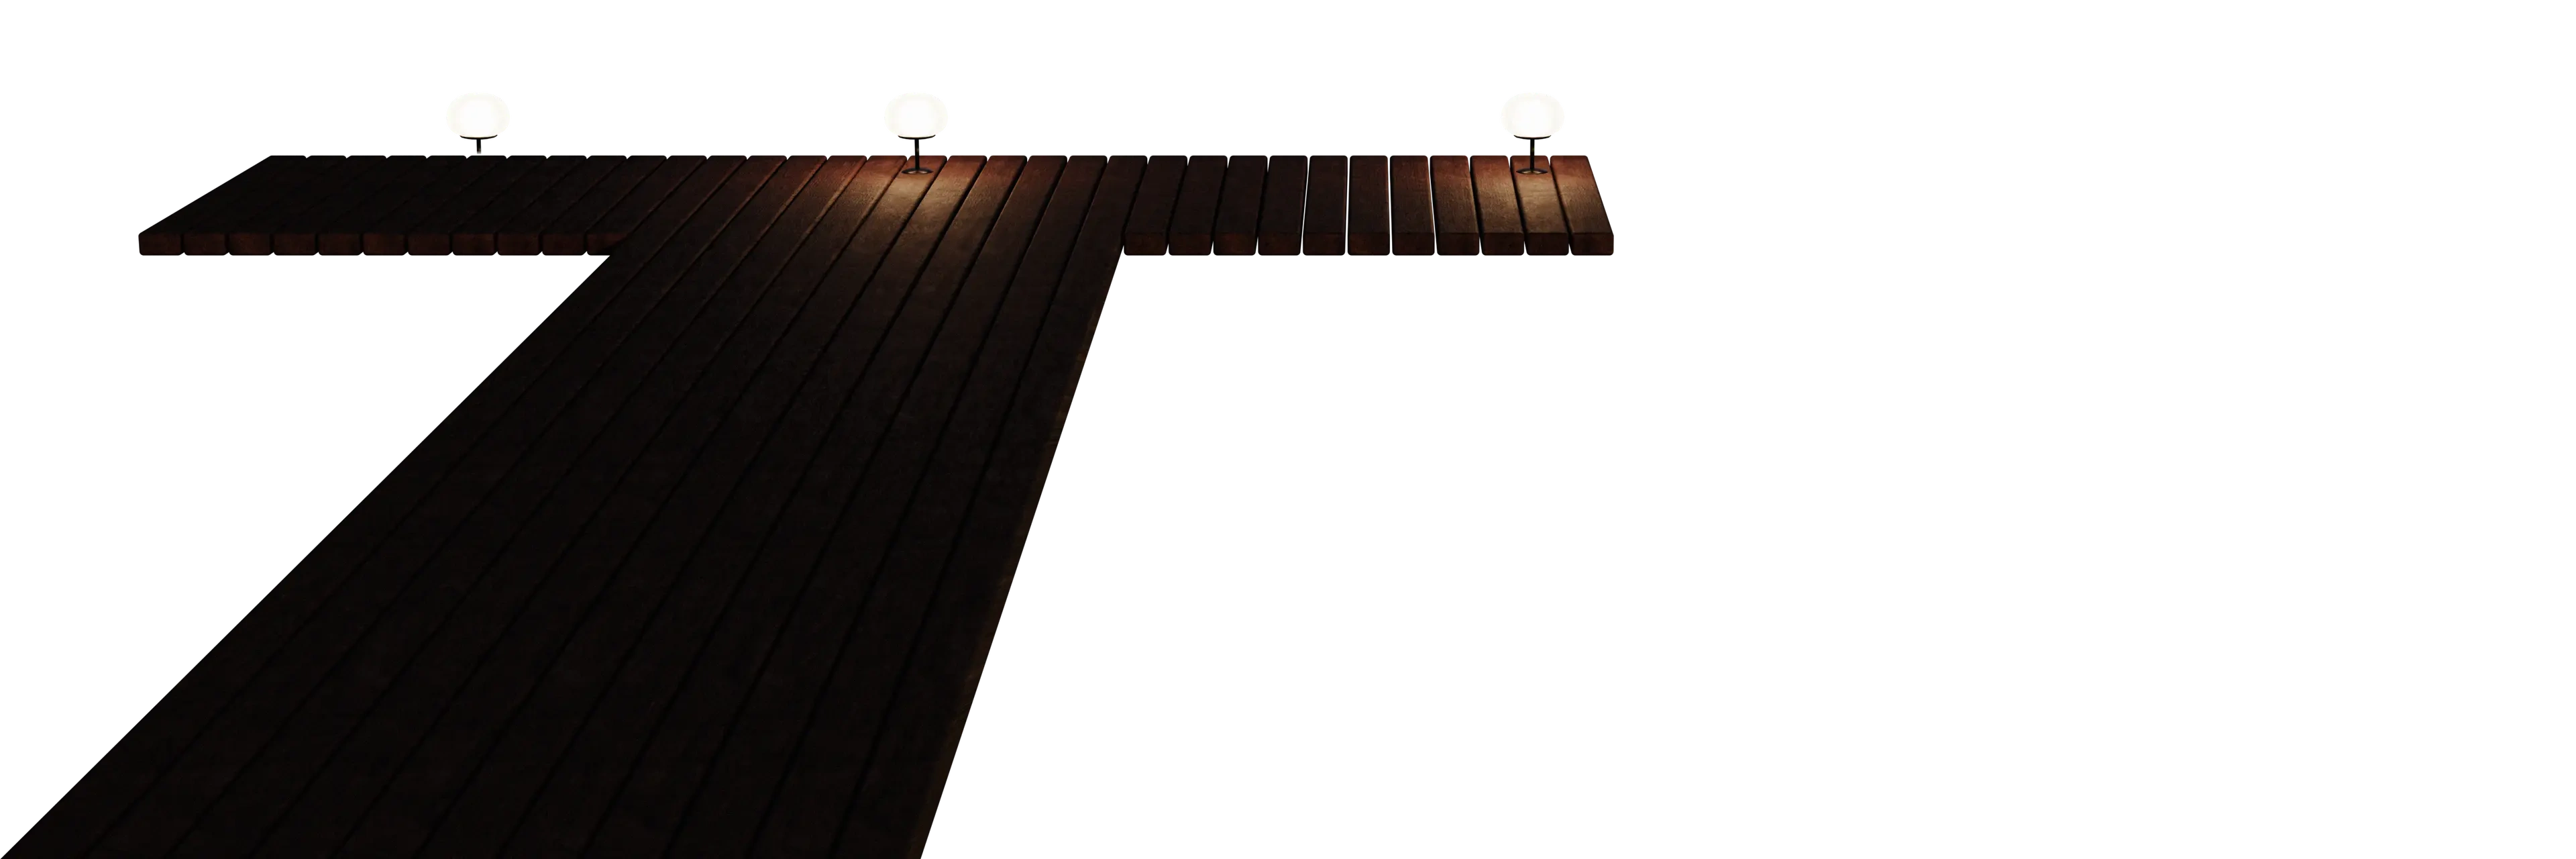
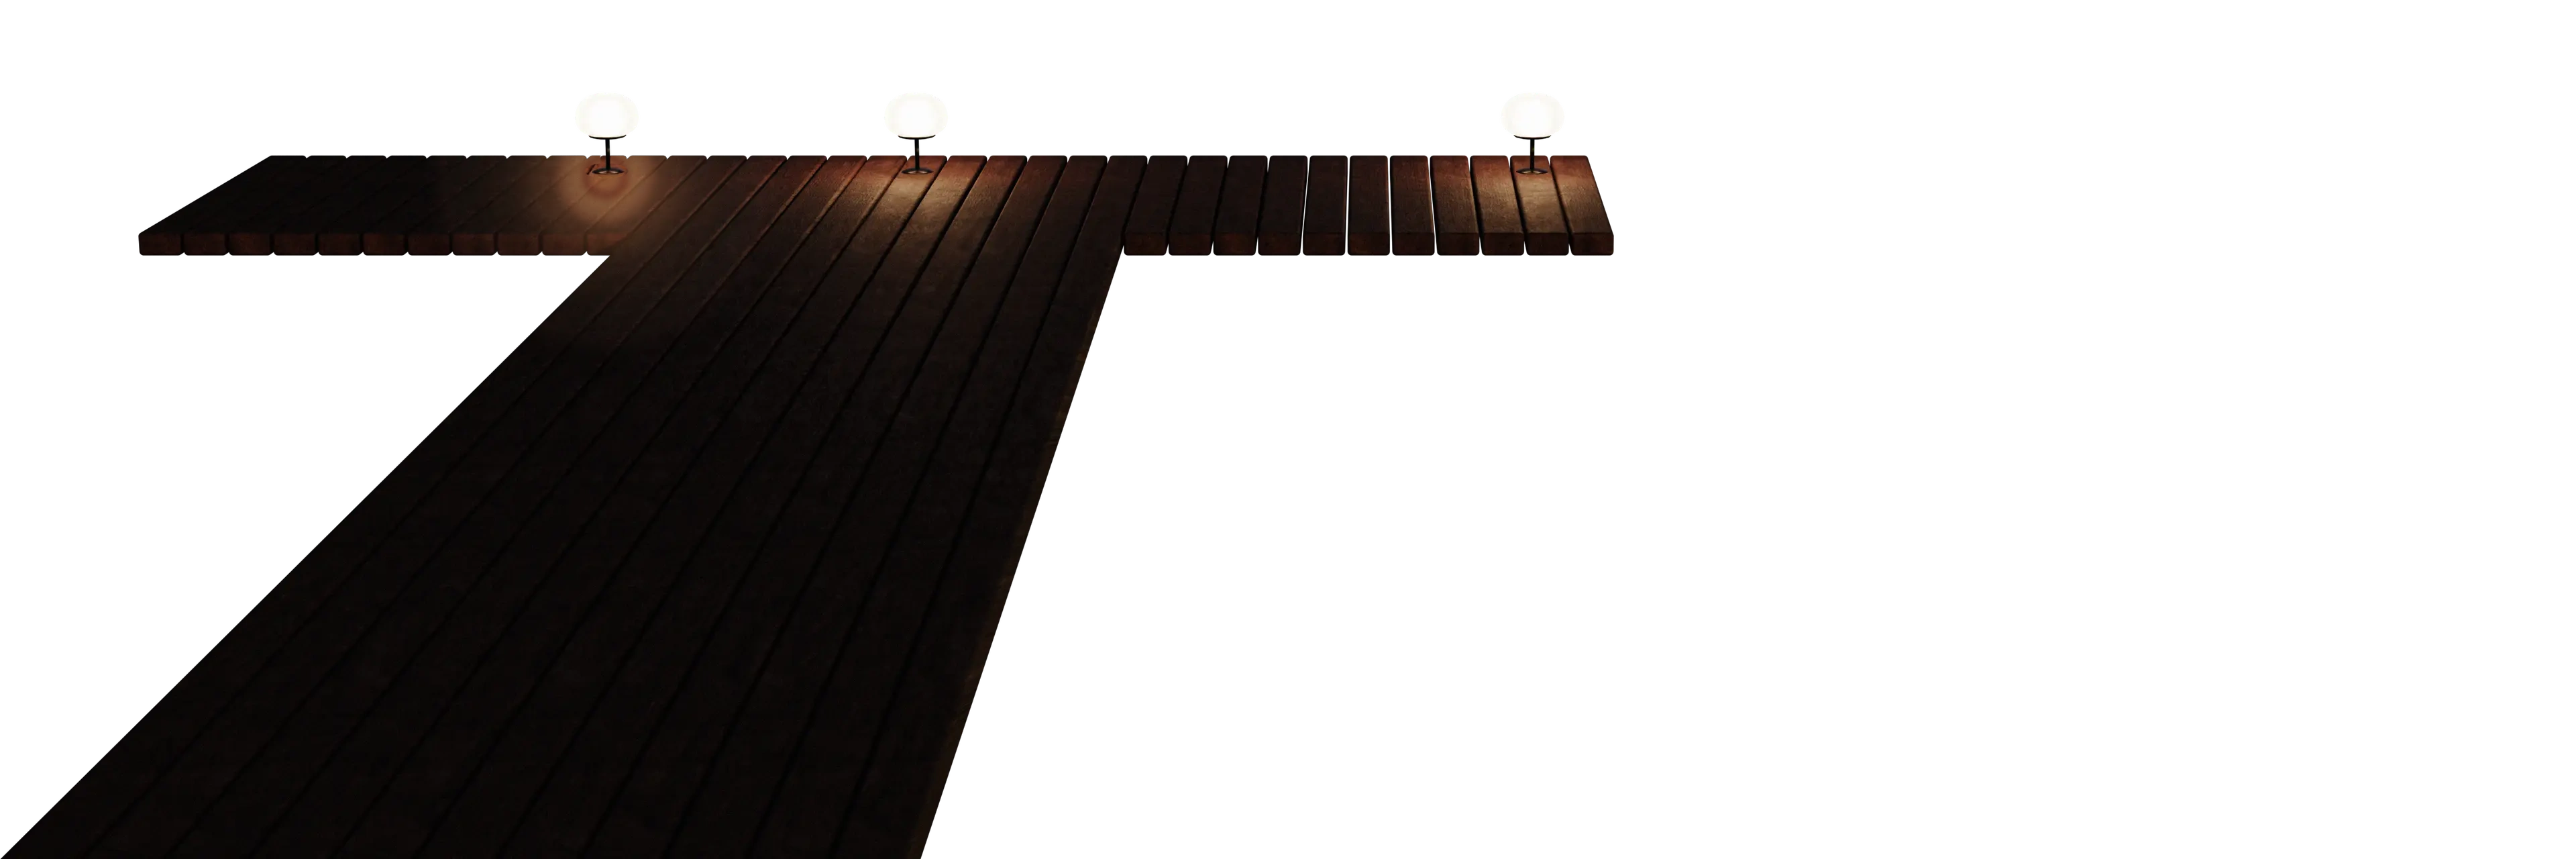
Polish footer dock lamp and lighting

Changed region(s): [[0.1875, 0.1562, 0.2812, 0.3125]]

diff --git a/frontend/components/scenes/footer-dock-three.tsx b/frontend/components/scenes/footer-dock-three.tsx
@@ -21,24 +21,18 @@ if (typeof window !== "undefined") {
 // ---------------------------------------------------------------------------
 
 // Lamp bulbs on the T-pier cross-bar: left / middle / right. The source texture
-// contains its added left fixture at x=.185, too close to the middle lamp and
-// without the painterly plank light baked under the original fixtures. At
-// render time we replace that patch with an exact sample of the middle fixture
-// and its pool, positioned one matching interval to the left. This keeps all
-// three fixtures evenly spaced and gives the left lamp the same construction,
-// colour and light response as the two originals.
-const SOURCE_LEFT_LAMP_X = 0.185;
-// The baked right fixture in the source texture sits slightly to the right of
-// its shader glow coordinate. Use the visible fixture center when matching the
-// physical deck overhang, otherwise the left arm remains visibly too long.
-const SOURCE_RIGHT_LAMP_X = 0.595;
-const LAMP_3: readonly [number, number] = [0.135, 0.866];
+// runs the left arm beyond the visible viewport. At render time that arm is
+// rebuilt from the center planks and shortened just enough to expose its full
+// fascia; the center and right fixture coordinates remain untouched.
+const LEFT_EDGE_X = 0.15;
+const LAMP_3: readonly [number, number] = [0.235, 0.866];
 const LAMP_1: readonly [number, number] = [0.355, 0.866];
 const LAMP_2: readonly [number, number] = [0.575, 0.866];
+const LEFT_SOURCE_SHIFT = LAMP_1[0] - LAMP_3[0];
 
 // Warm pools on the walkway planks directly beneath each bulb. The walkway
 // surface sits just below the lamp heads in the texture.
-const POOL_3: readonly [number, number] = [0.135, 0.795];
+const POOL_3: readonly [number, number] = [0.235, 0.795];
 const POOL_1: readonly [number, number] = [0.355, 0.795];
 const POOL_2: readonly [number, number] = [0.575, 0.795];
 
@@ -98,43 +92,77 @@ const FRAGMENT_SHADER = /* glsl */ `
   void main() {
     vec4 tex = texture2D(uMap, vUv);
 
-    // The source left arm has a much longer perspective wedge than the right.
-    // Rebuild its short outer cap from clean interior planks, but borrow the
-    // alpha silhouette from the right end. This gives both ends the same depth
-    // and angled cut without copying the right lamp or its baked light pool.
     float directTexture = 1.0 - uReflection;
-    // Confine the mirrored silhouette to the deck surface and fascia. The
-    // right lamp stand begins just above this cutoff, so no fixture pixels can
-    // leak into the rebuilt edge while the inner join remains continuous.
-    float leftCapMask = (1.0 - smoothstep(0.102, 0.110, vUv.x)) * (1.0 - smoothstep(0.822, 0.830, vUv.y));
-    float cleanCapSourceX = 0.205 + vUv.x;
-    vec4 matchedLeftCap = texture2D(uMap, vec2(cleanCapSourceX, vUv.y));
-    // Mirror around the midpoint of the two outer lamp centers, not the center
-    // of the full texture. That makes lamp-to-edge overhang identical on both
-    // sides as well as matching the right end's cut angle.
-    vec4 rightEndSilhouette = texture2D(uMap, vec2(${(LAMP_3[0] + SOURCE_RIGHT_LAMP_X).toFixed(3)} - vUv.x, vUv.y));
-    matchedLeftCap.a = rightEndSilhouette.a;
-    tex = mix(tex, matchedLeftCap, leftCapMask * directTexture);
 
-    // Move the added left fixture into the same spacing rhythm as the middle
-    // and right lamps. First restore the small source patch from neighboring
-    // left-arm planks, then copy the complete middle lamp/pool patch into its
-    // new position. On the deck itself we retain the repaired arm's alpha so
-    // neither radial patch can bend its silhouette; only the lamp pixels above
-    // the deck are allowed to supply their source alpha.
-    float oldFixture = 1.0 - smoothstep(
-      0.092,
-      0.125,
-      radialDist(vUv, vec2(${SOURCE_LEFT_LAMP_X.toFixed(3)}, 0.820))
+    // Rebuild the entire faulty left cross-bar from the fully opaque center
+    // run. A single translation preserves every board seam's angle and spacing
+    // and carries the complete middle fixture/pool onto the new left position.
+    // The inner feather ends before the protected center lamp.
+    vec2 leftSourceUv = vec2(vUv.x + ${LEFT_SOURCE_SHIFT.toFixed(3)}, vUv.y);
+    vec4 matchedLeftArm = texture2D(uMap, leftSourceUv);
+
+    // Normalize the fascia depth so the translated center walkway cannot pull
+    // a diagonal stem into the cross-bar. This is the exact construction used
+    // by the corrected right arm below.
+    vec4 matchedLeftFascia = matchedLeftArm;
+    matchedLeftFascia.a = smoothstep(0.650, 0.665, vUv.y);
+    float leftDeckSurface = smoothstep(0.695, 0.715, vUv.y);
+    matchedLeftArm = mix(matchedLeftFascia, matchedLeftArm, leftDeckSurface);
+
+    // A crisp vertical alpha cut exposes the full left fascia inside the
+    // viewport. Its .085 lamp overhang matches the corrected right edge.
+    matchedLeftArm.a *= smoothstep(${LEFT_EDGE_X.toFixed(3)}, ${(LEFT_EDGE_X + 0.003).toFixed(3)}, vUv.x);
+
+    float leftArmMask =
+      (1.0 - smoothstep(0.315, 0.335, vUv.x)) *
+      smoothstep(0.600, 0.650, vUv.y) *
+      directTexture;
+    tex = mix(tex, matchedLeftArm, leftArmMask);
+
+    // The painted source's right arm has three coupled defects: its baked lamp
+    // pool is clipped off-center, its board seams fan at inconsistent angles,
+    // and its outer cut is irregular. Rebuild only that cross-bar band from a
+    // translated run of the corrected left planks. Translation (rather than a
+    // mirror) preserves the good seam angle so the boards remain parallel and
+    // continuous through the center. Keep this off the reflection material so
+    // the existing water treatment remains unchanged.
+    // A .220 translation maps the fully opaque center run onto the right arm
+    // and places the middle fixture at .355 exactly on the right center .575.
+    vec2 rightSourceUv = vec2(vUv.x - 0.220, vUv.y);
+    vec4 matchedRightArm = texture2D(uMap, rightSourceUv);
+
+    // The repaired source now contains its real left fixture at .235. Under
+    // the right-arm translation that fixture would be sampled again at .455,
+    // creating a fourth lamp. Preserve the original, already-correct inner
+    // cross-bar around that translated pool while continuing to rebuild the
+    // faulty outer-right planks and edge.
+    float translatedLeftLamp = 1.0 - smoothstep(
+      0.190,
+      0.225,
+      radialDist(vUv, vec2(${(LAMP_3[0] + 0.220).toFixed(3)}, ${POOL_3[1].toFixed(3)}))
     );
-    vec4 repairedLeftArm = texture2D(uMap, vec2(vUv.x + 0.047, vUv.y));
-    repairedLeftArm.a = mix(repairedLeftArm.a, tex.a, 1.0 - smoothstep(0.825, 0.842, vUv.y));
-    tex = mix(tex, repairedLeftArm, oldFixture * directTexture);
+    matchedRightArm = mix(matchedRightArm, tex, translatedLeftLamp);
 
-    float matchedLeftPatch = 1.0 - smoothstep(0.105, 0.145, radialDist(vUv, vec2(0.135, 0.820)));
-    vec4 middleLampPatch = texture2D(uMap, vec2(vUv.x + 0.220, vUv.y));
-    middleLampPatch.a = mix(middleLampPatch.a, tex.a, 1.0 - smoothstep(0.825, 0.842, vUv.y));
-    tex = mix(tex, middleLampPatch, matchedLeftPatch * directTexture);
+    // Keep the translated wood colour on the fascia, but normalize its alpha
+    // to the cross-bar depth. The source run crosses the center walkway below
+    // the surface; retaining that source alpha would pull a false downward
+    // wedge into the right arm.
+    vec4 matchedRightFascia = matchedRightArm;
+    matchedRightFascia.a = smoothstep(0.650, 0.665, vUv.y);
+    float deckSurface = smoothstep(0.695, 0.715, vUv.y);
+    matchedRightArm = mix(matchedRightFascia, matchedRightArm, deckSurface);
+
+    // Cut every layer of the reconstructed arm at one vertical coordinate.
+    // The overhang from the right lamp matches the corrected left end, while
+    // the narrow antialiased transition keeps the termination crisp.
+    matchedRightArm.a *= 1.0 - smoothstep(0.657, 0.660, vUv.x);
+
+    // Feather only the inner join; the outer cut above remains a straight line.
+    float rightArmMask =
+      smoothstep(0.425, 0.445, vUv.x) *
+      smoothstep(0.600, 0.650, vUv.y) *
+      directTexture;
+    tex = mix(tex, matchedRightArm, rightArmMask);
 
     // Lamp halos: gentle flicker once each lamp has ignited.
     float flicker1 = 0.975 + 0.025 * sin(uTime * 6.3 + 1.7);
@@ -158,6 +186,23 @@ const FRAGMENT_SHADER = /* glsl */ `
 
     vec3 lampWarm = vec3(1.0, 0.78, 0.52);
     vec3 moonCool = vec3(0.42, 0.56, 0.66);
+
+    // The source reflection has no left-lamp shimmer. Build one only on the
+    // reflection material: wider than the deck halo, stretched vertically,
+    // gently displaced by the same water rhythm, and faded in from the water
+    // surface so it never reads as a hard mirrored circle.
+    float leftWaterDepth = max(${WATER_Y.toFixed(2)} - vUv.y, 0.0);
+    vec2 leftWaterDelta = vUv - uLamp3;
+    leftWaterDelta.x += sin(vUv.y * 92.0 + uTime * 1.35) * (0.0035 + leftWaterDepth * 0.006);
+    float leftWaterDistance = length(leftWaterDelta * vec2(2.15, 0.52));
+    float leftWaterSurface = smoothstep(-0.004, 0.014, ${WATER_Y.toFixed(2)} - vUv.y);
+    float leftWaterShimmer = 0.84 + 0.16 * sin(vUv.y * 185.0 - uTime * 1.1 + vUv.x * 24.0);
+    float leftWaterReflection =
+      exp(-leftWaterDistance * 12.0) *
+      leftWaterSurface *
+      leftWaterShimmer *
+      uLamp3On *
+      uReflection;
 
     // Pools hug the dock planks (soft alpha edge); the bulb halos may bleed
     // slightly past the dock so warm light pools onto the water below.
@@ -188,8 +233,10 @@ const FRAGMENT_SHADER = /* glsl */ `
     col += lampWarm * (pool1 + pool2 + pool3) * 0.035 * onDock * reflectionScale;
     col += lampWarm * washSum * 0.004 * onDock * reflectionScale;
     col += bulbSum * lampWarm * 0.15 * max(onDock, bulbSum * 0.36) * reflectionScale;
+    col += lampWarm * leftWaterReflection * 0.34;
 
-    gl_FragColor = vec4(col, tex.a * uOpacity);
+    float outputAlpha = max(tex.a * uOpacity, leftWaterReflection * 0.16);
+    gl_FragColor = vec4(col, outputAlpha);
 
     // three defines linearToOutputTexel() for ShaderMaterial from
     // renderer.outputColorSpace and resolves this include in custom shaders.
@@ -303,7 +350,7 @@ export function FooterDockThree() {
       return texture;
     };
 
-    const dockTexture = loadTexture("/adaline-scenes/footer/footer-dock.webp?v=3");
+    const dockTexture = loadTexture("/adaline-scenes/footer/footer-dock.webp?v=4");
     const reflectionTexture = loadTexture("/adaline-scenes/footer/footer-dock-reflection.webp?v=2");
 
     const geometry = new THREE.PlaneGeometry(1, 1);